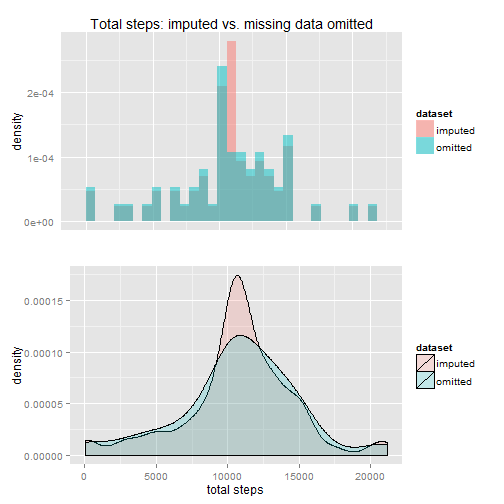
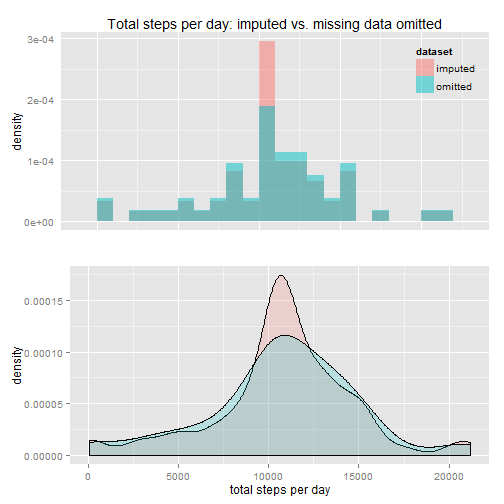
edited overlaid density plot, script text, and readme

diff --git a/PA1_template.html b/PA1_template.html
@@ -441,12 +441,16 @@ x ; y
 
 <h3>Conclusion:</h3>
 
-<p>When missing values are imputed the difference between the two datasets in mean (0) and median (1) appears insignificant. Overlaid density plots (below) show imputation heightens and sharpens kurtosis in the resulting dataset.</p>
+<p>When missing values are imputed the difference between the two datasets in mean (0) and median (1) appears insignificant. Overlaid histogram and density plots (below) show that imputation heightens and sharpens kurtosis.  </p>
 
-<pre><code class="r"># Visual comparison of the two datasets  
-# Overlay density and histogram plots
+<pre><code class="r">########  Please note these combined overlaid plots    ########              
+########  were not required for the assignement; they  ########       
+########  were added for visualizing the comparison.  ######## 
 
-# combine dataframes into one after addubg a new variable
+# Visual comparison of the two datasets  
+# Overlay histogram and density plots
+
+# combine dataframes into one after adding a new variable
 # to distinguish which total steps are from which
 
 totalSteps3 &lt;- totalSteps ; totalSteps4 &lt;- totalSteps2
@@ -461,21 +465,22 @@ totalSteps5 &lt;- rbind(totalSteps3, totalSteps4)
 # for processing via function shown further below
 
 p1 &lt;- ggplot(totalSteps5, aes(sums, fill = dataset)) +
-      geom_histogram(alpha = 0.5,
-                     aes(y = ..density..), position = &quot;identity&quot;) +
+      geom_histogram(alpha = 0.5, aes(y = ..density..),
+                     position = &quot;identity&quot;, binwidth = 1000) +
       scale_fill_discrete(
             breaks = c(&quot;new&quot;, &quot;old&quot;),
             labels = c(&quot;imputed&quot;, &quot;omitted&quot;)) +
+      theme(legend.position = c(1, 1), legend.justification = c(1,1)) +
+      theme(legend.background = element_blank()) +
+      theme(legend.key = element_blank()) +
       theme(axis.ticks = element_blank(), axis.text.x = element_blank()) +
       theme(axis.title.x=element_blank()) +
-      ggtitle(&quot;Total steps: imputed vs. missing data omitted&quot;)
+      ggtitle(&quot;Total steps per day: imputed vs. missing data omitted&quot;)
 
 p2 &lt;- ggplot(totalSteps5, aes(sums, fill = dataset)) +
       geom_density(alpha = 0.2) +
-      scale_fill_discrete(
-            breaks = c(&quot;new&quot;, &quot;old&quot;),
-            labels = c(&quot;imputed&quot;, &quot;omitted&quot;)) +
-      xlab(&quot;total steps&quot;)
+      theme(legend.position = &quot;none&quot;) +
+      xlab(&quot;total steps per day&quot;)
 
 # Function for arranging ggplots in one window (from S. Turner at
 # http://www.gettinggeneticsdone.com/2010/03/arrange-multiple-ggplot2-plots-in-same.html)
@@ -506,7 +511,7 @@ arrange_ggplot2 &lt;- function(..., nrow=NULL, ncol=NULL, as.table=FALSE) {
 arrange_ggplot2(p1, p2, nrow = 2)
 </code></pre>
 
[2 lines of base64/hex data omitted]
 
 <h2>Are there differences in activity patterns between weekdays and weekends?</h2>
 

diff --git a/PA1_template.md b/PA1_template.md
@@ -292,14 +292,19 @@ x ; y
 ```
 
 ### Conclusion: 
-When missing values are imputed the difference between the two datasets in mean (0) and median (1) appears insignificant. Overlaid density plots (below) show imputation heightens and sharpens kurtosis in the resulting dataset.
+When missing values are imputed the difference between the two datasets in mean (0) and median (1) appears insignificant. Overlaid histogram and density plots (below) show that imputation heightens and sharpens kurtosis.  
+
 
 
 ```r
-# Visual comparison of the two datasets  
-# Overlay density and histogram plots
+########  Please note these combined overlaid plots    ########              
+########  were not required for the assignement; they  ########       
+########  were added for visualizing the comparison.  ######## 
 
-# combine dataframes into one after addubg a new variable
+# Visual comparison of the two datasets  
+# Overlay histogram and density plots
+
+# combine dataframes into one after adding a new variable
 # to distinguish which total steps are from which
 
 totalSteps3 <- totalSteps ; totalSteps4 <- totalSteps2
@@ -316,21 +321,22 @@ totalSteps5 <- rbind(totalSteps3, totalSteps4)
 # for processing via function shown further below
 
 p1 <- ggplot(totalSteps5, aes(sums, fill = dataset)) +
-      geom_histogram(alpha = 0.5,
-                     aes(y = ..density..), position = "identity") +
+      geom_histogram(alpha = 0.5, aes(y = ..density..),
+                     position = "identity", binwidth = 1000) +
       scale_fill_discrete(
             breaks = c("new", "old"),
             labels = c("imputed", "omitted")) +
+      theme(legend.position = c(1, 1), legend.justification = c(1,1)) +
+      theme(legend.background = element_blank()) +
+      theme(legend.key = element_blank()) +
       theme(axis.ticks = element_blank(), axis.text.x = element_blank()) +
       theme(axis.title.x=element_blank()) +
-      ggtitle("Total steps: imputed vs. missing data omitted")
+      ggtitle("Total steps per day: imputed vs. missing data omitted")
 
 p2 <- ggplot(totalSteps5, aes(sums, fill = dataset)) +
       geom_density(alpha = 0.2) +
-      scale_fill_discrete(
-            breaks = c("new", "old"),
-            labels = c("imputed", "omitted")) +
-      xlab("total steps")
+      theme(legend.position = "none") +
+      xlab("total steps per day")
 
 # Function for arranging ggplots in one window (from S. Turner at
 # http://www.gettinggeneticsdone.com/2010/03/arrange-multiple-ggplot2-plots-in-same.html)
